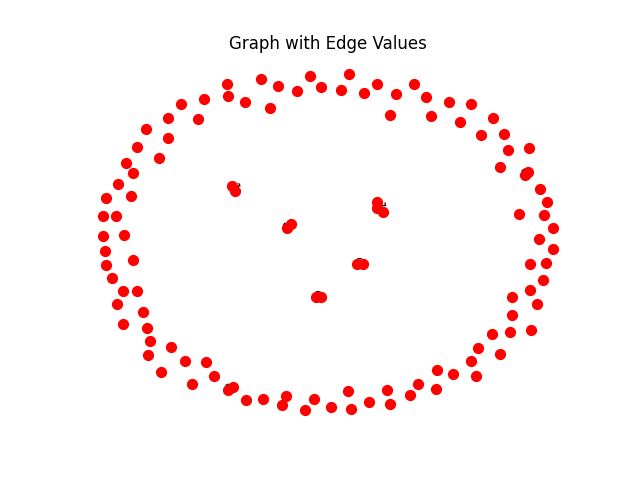
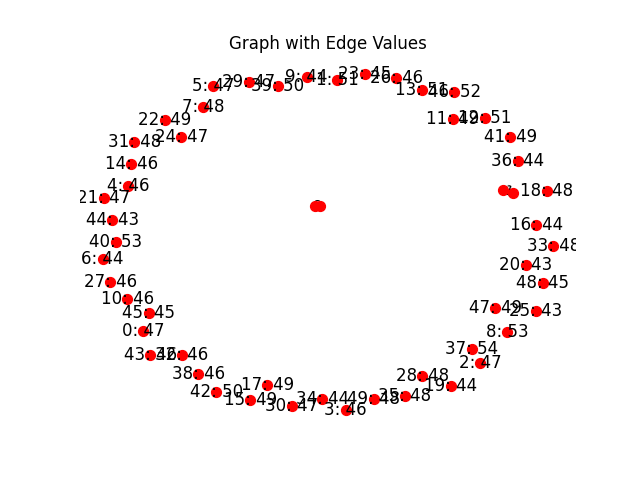
added neighbour fn

diff --git a/utils.py b/utils.py
@@ -46,8 +46,11 @@ def save_graph(nodes_raw, edges_raw, name):
     nx.draw_networkx_edges(G, pos, edge_color='b', width=2)
 
     # Draw edge labels
-    labels = nx.get_edge_attributes(G, 'weight')
-    nx.draw_networkx_edge_labels(G, pos, edge_labels=labels)
+    labels = {g_node: f"{i}: {int(node.fitness())}" for (i, node), g_node in zip(enumerate(nodes_raw), G.nodes())}  # Convert nodes to string labels
+    nx.draw_networkx_labels(G, pos, labels=labels, font_size=12)
+
+    e_labels = nx.get_edge_attributes(G, 'weight')
+    nx.draw_networkx_edge_labels(G, pos, edge_labels=e_labels)
 
     # Customize the plot
     plt.title("Graph with Edge Values")

diff --git a/test.py b/test.py
@@ -53,8 +53,8 @@ for f in datafiles:
     print("generating nodes")
     l.generate_nodes(100, 10)
 
-    print("generating edges                    ")
-    l.generate_edges(10)
+    print("generating edges")
+    l.generate_edges(100)
 
     print('edges:                              ')
     for edge in l.edges:

diff --git a/lon.py b/lon.py
@@ -42,7 +42,7 @@ class LON:
 		node_n = 0
 		for node in self.nodes:
 			node_n += 1
-			kick_moves = 2
+			kick_moves = 4
 			i = I_edges
 
 			optimum_leave = 0
